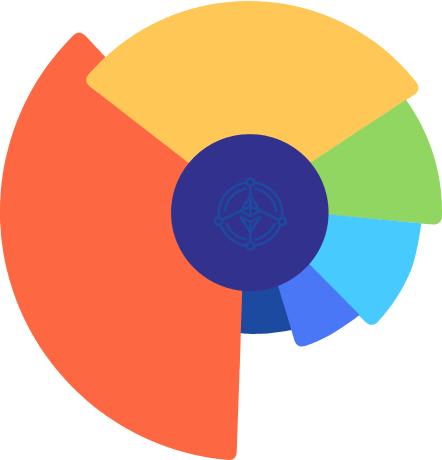
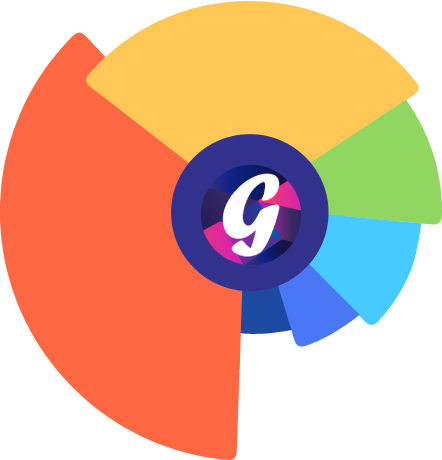
fixes images

Changed region(s): [[0.4412, 0.3348, 0.7059, 0.5783]]

diff --git a/index.html b/index.html
@@ -308,7 +308,7 @@
 						<div class="distisec">
 							<h3>Tokenomics</h3>
 							<div class="chartproceed">
-								<div class="chartproceed-img wow fadeInLeft"><img src="images/chart.png" alt="" /></div>
+								<div class="chartproceed-img wow fadeInLeft"><img src="images/chart2.png" alt="" /></div>
 								<div class="chartsinfo">
 									<span class="wow fadeInUp" data-wow-delay="0s"><i class="clr1"></i>Name: NFTGALAXY (NFTG)</span>
 									<span class="wow fadeInUp" data-wow-delay="0.2s"><i class="clr2"></i>Contract: 0xc713d1053a6e8eFA08aE2903181D8cE5182Aa66c</span>
